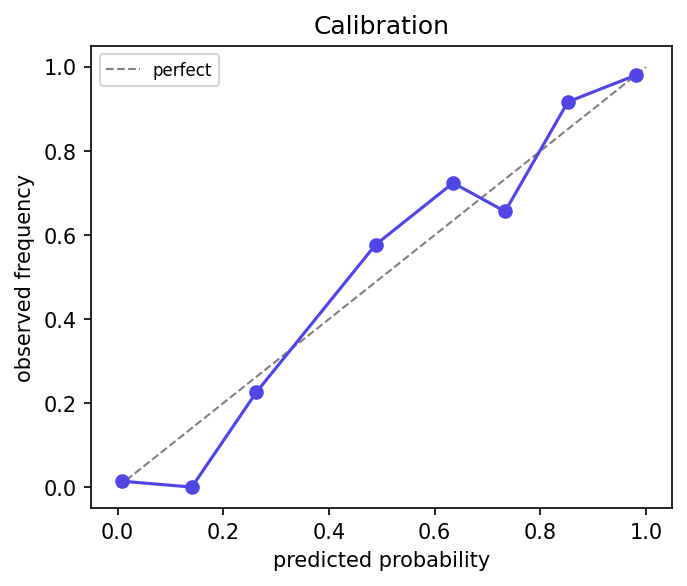
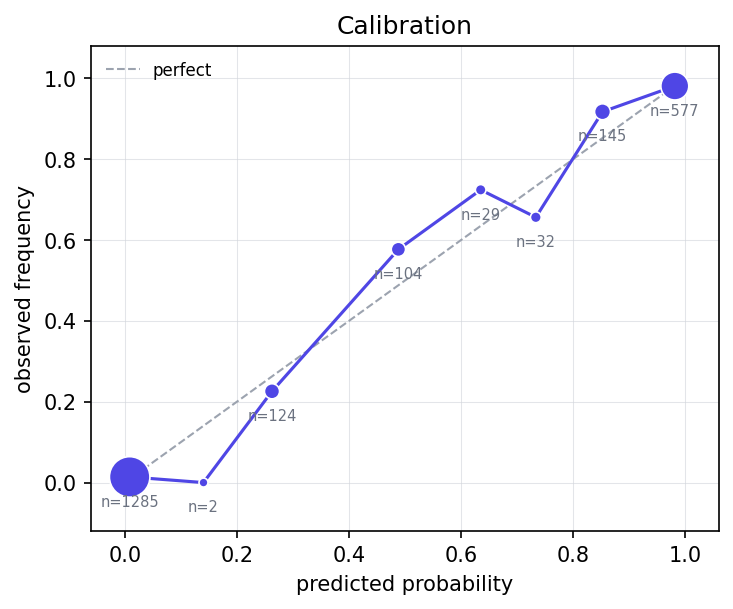
pin dependency ceilings; weight reliability bins by sample count

diff --git a/ml/exodiscover/evaluate.py b/ml/exodiscover/evaluate.py
@@ -29,6 +29,18 @@ from sklearn.metrics import (  # noqa: E402
 
 from exodiscover.config import settings  # noqa: E402
 
+#: One accent hue for the single data series; everything else is recessive ink,
+#: so text never carries the series colour and the grid never competes with it.
+ACCENT = "#4f46e5"
+REFERENCE_INK = "#9ca3af"
+GRID_INK = "#d1d5db"
+LABEL_INK = "#6b7280"
+
+#: Reliability markers scale with bin population. The floor keeps a two-row bin
+#: on the page; the range is what separates it from a twelve-hundred-row one.
+MIN_MARKER_AREA = 18.0
+MARKER_AREA_RANGE = 360.0
+
 
 def precision_at_k(y_true: np.ndarray, y_prob: np.ndarray, k: int = 50) -> float:
     """Fraction of the k highest-ranked items that are true positives.
@@ -152,13 +164,48 @@ def plot_all(y_true, y_prob, out_dir: Path) -> list[Path]:
     written.append(path)
 
     curve = reliability_curve(y_true, y_prob)
-    fig, ax = plt.subplots(figsize=(5, 4))
-    ax.plot([0, 1], [0, 1], "--", color="grey", lw=1, label="perfect")
-    ax.plot(curve["bin_centers"], curve["observed"], marker="o", color="#4f46e5")
+    centers = np.asarray(curve["bin_centers"])
+    observed = np.asarray(curve["observed"])
+    counts = np.asarray(curve["counts"], dtype=float)
+
+    fig, ax = plt.subplots(figsize=(5.4, 4.2))
+    ax.plot([0, 1], [0, 1], "--", color=REFERENCE_INK, lw=1, label="perfect", zorder=1)
+    ax.plot(centers, observed, color=ACCENT, lw=1.5, zorder=2)
+
+    # Marker area tracks how many rows the bin holds. Drawn at a fixed size, a
+    # bin of 2 claims exactly as much authority as a bin of 1,285, and the eye
+    # reads the noisiest points as findings. The floor keeps a tiny bin visible
+    # rather than proportional, so the count is printed beside every marker.
+    ax.scatter(
+        centers,
+        observed,
+        s=MIN_MARKER_AREA + MARKER_AREA_RANGE * counts / counts.max(),
+        color=ACCENT,
+        edgecolor="white",
+        linewidth=0.8,
+        zorder=3,
+    )
+    for x, y, n in zip(centers, observed, counts, strict=True):
+        ax.annotate(
+            f"n={int(n)}",
+            (x, y),
+            textcoords="offset points",
+            xytext=(0, -14),
+            ha="center",
+            fontsize=7,
+            color=LABEL_INK,
+        )
+
     ax.set_xlabel("predicted probability")
     ax.set_ylabel("observed frequency")
     ax.set_title("Calibration")
-    ax.legend(loc="upper left", fontsize=8)
+    # Room below zero and beside one so the count labels on the end bins, which
+    # sit hard against the corners, are not clipped by the axes.
+    ax.set_xlim(-0.06, 1.06)
+    ax.set_ylim(-0.12, 1.08)
+    ax.grid(True, lw=0.5, color=GRID_INK, alpha=0.6)
+    ax.set_axisbelow(True)
+    ax.legend(loc="upper left", fontsize=8, frameon=False)
     path = out_dir / "reliability.png"
     fig.savefig(path, dpi=150, bbox_inches="tight")
     plt.close(fig)
